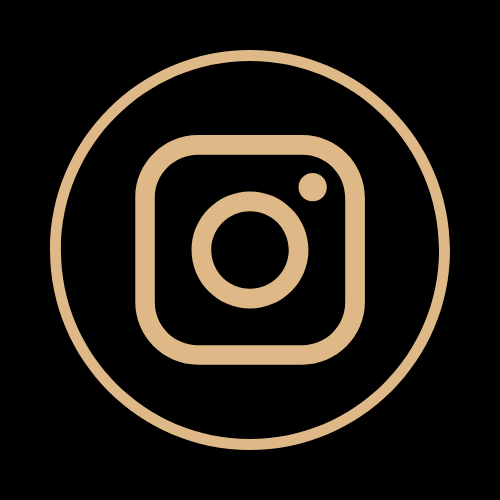
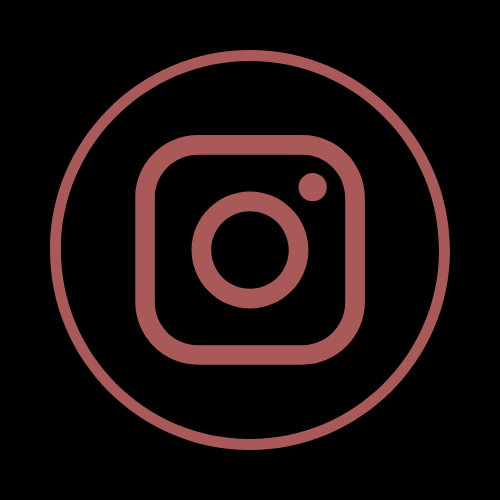
editado

Changed region(s): [[0.27, 0.27, 0.75, 0.75], [0.09, 0.09, 0.9, 0.9]]

diff --git a/style.css b/style.css
@@ -10,15 +10,17 @@
 }
 
 body {
-    background-image: url("./img/studio.jpg");
+    background-image: url("./img/city2.jpg");
     background-repeat: no-repeat;
     background-attachment: fixed;
+    background-position: center;
     background-size: cover;
     height: 20em;
 }
 
 .title {
-    color: burlywood;
+    color: #a85958;
+    font-weight: bold;
 }
 
 .container {
@@ -42,8 +44,9 @@ div {
 .navbar {
     margin-left: 15px;
     margin-right: 15px;
-    color: burlywood;
+    color: #a85958;
     text-decoration: none;
+    font-weight: bold;
 }
 
 nav a:hover {
@@ -57,8 +60,8 @@ nav a:hover {
 .title-section {
     font-size: 50px;
     background-color: #1a1a1a;
-    opacity: .60;
-    color: burlywood;
+    opacity: .90;
+    color: #a85958;
 }
 
 img {
@@ -94,7 +97,7 @@ footer {
     justify-content: space-evenly;
     margin: auto;
     padding: 50px;
-    border-bottom: 1px solid burlywood;
+    border-bottom: 1px solid #a85958;
 }
 
 .prj-section a {
